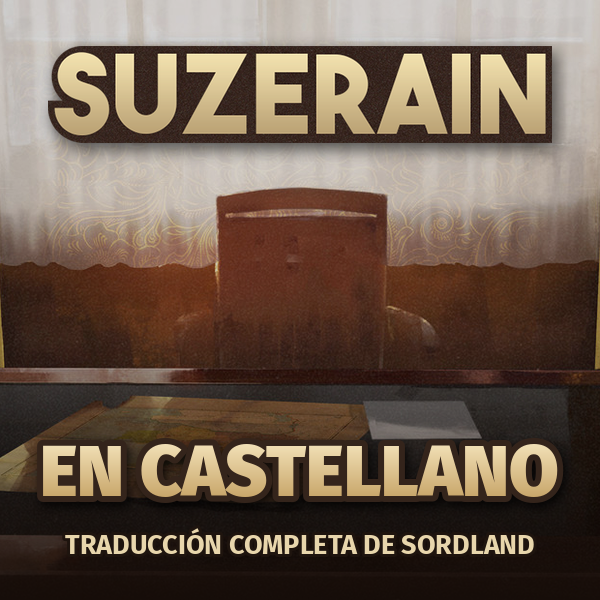
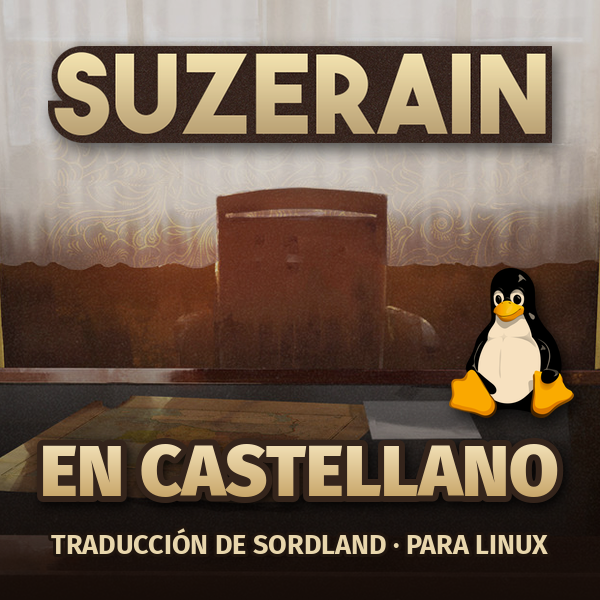
Portada con Tux: deja claro que el parche es para Linux

Changed region(s): [[0.09, 0.87, 0.93, 0.93], [0.75, 0.45, 0.96, 0.72]]

diff --git a/README.md b/README.md
@@ -59,4 +59,4 @@ De momento solo hay instalador para Linux.
 
 ---
 
-Suzerain es © Torpor Games. Esta traducción no está afiliada a ellos.
+Suzerain es © Torpor Games. Esta traducción no está afiliada a ellos. Tux, el pingüino de Linux, es de Larry Ewing (lewing@isc.tamu.edu), hecho con The GIMP.
